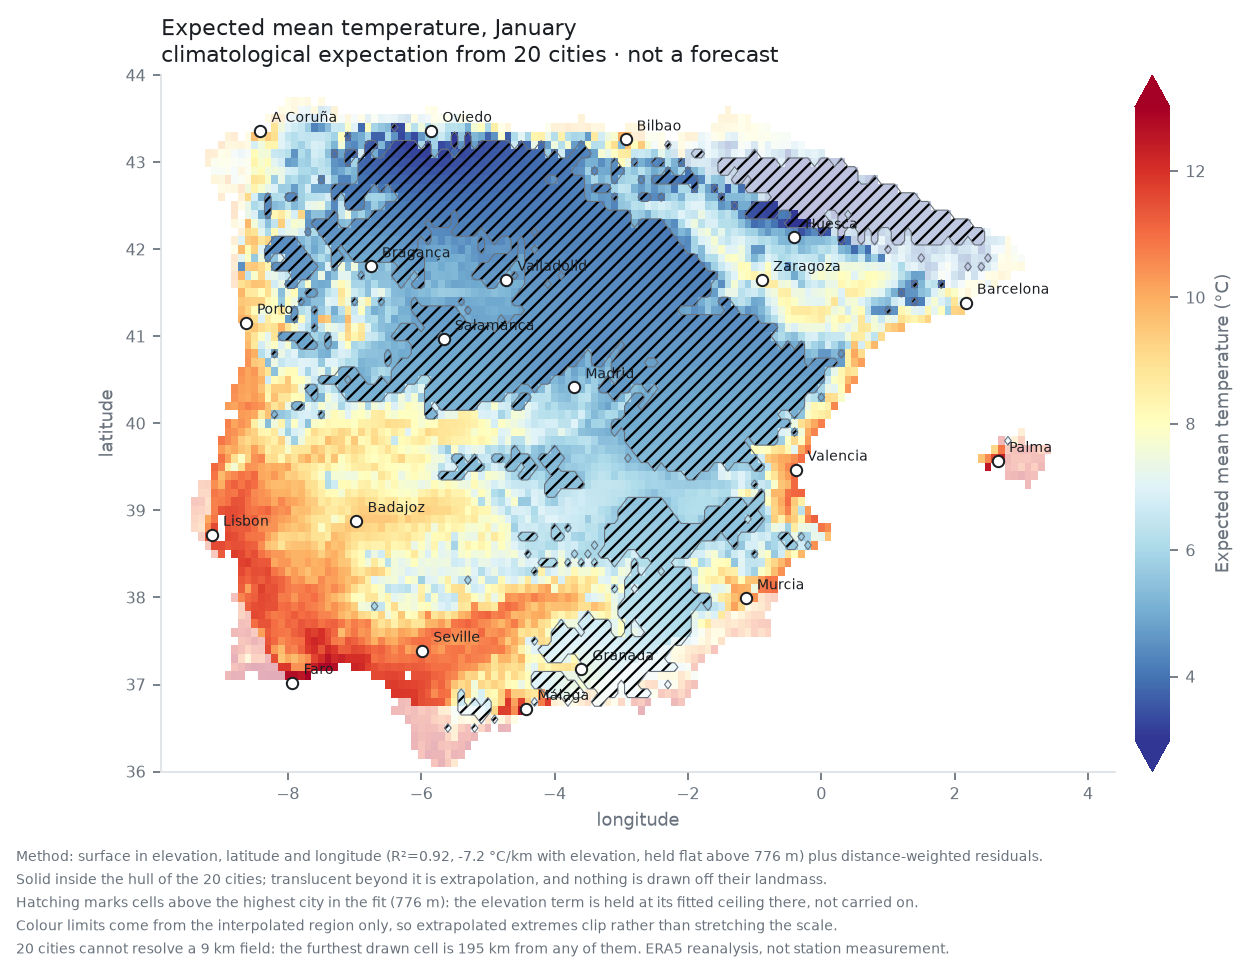
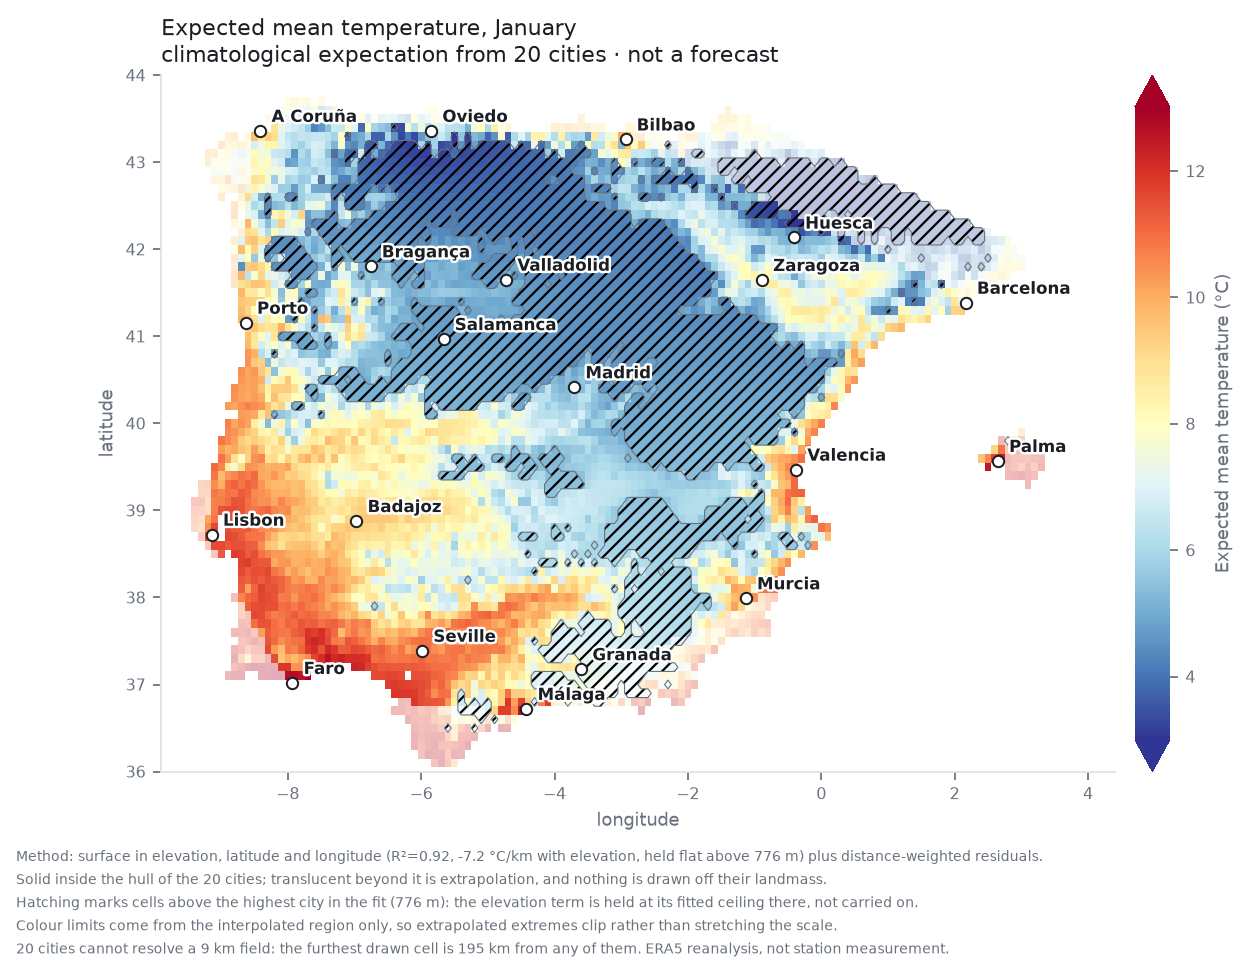
Make the map's city labels legible
They were 6.5pt, regular weight, dark ink, drawn straight onto the
painted field. On a dark January meseta cell that is dark-on-dark, so
Valladolid, Salamanca, Bragança and Madrid were effectively invisible.

Bold as asked, up a size to 7.5pt, and a white halo under the glyphs via
path effects. The halo is what actually does the work: weight alone does
not help text whose problem is that it has no contrast with what is
behind it, and the field is painted in every hue the colour scale has.
Drawn under the letterforms rather than around them, so it thickens the
stroke instead of outlining it.

Only the map labels change. The other figures draw their text on white,
where regular weight is already legible and bolding it would just be
noise.

diff --git a/scripts/make_figures.py b/scripts/make_figures.py
@@ -31,6 +31,7 @@ matplotlib.use("Agg")
 
 import matplotlib.colors  # noqa: E402
 import matplotlib.dates  # noqa: E402
+import matplotlib.patheffects as patheffects  # noqa: E402
 import matplotlib.pyplot as plt  # noqa: E402
 import numpy as np  # noqa: E402
 import pandas as pd  # noqa: E402
@@ -578,15 +579,24 @@ def figure_map(year: int, month: int, variable: str = "tavg"):
         linewidths=0.9,
         zorder=5,
     )
+    # City labels sit directly on the painted field, so weight alone does not make
+    # them legible -- dark ink on a dark January Pyrenees cell is unreadable at any
+    # weight. Bold for the stroke width, a size up from 6.5pt, and a white halo so
+    # the name carries its own contrast wherever it lands. The halo is drawn under
+    # the glyphs, so it thickens the letterform rather than outlining it.
     for slug, row in estimates.iterrows():
         ax.annotate(
             row["name"],
             (row["lon"], row["lat"]),
             textcoords="offset points",
             xytext=(5, 4),
-            fontsize=6.5,
+            fontsize=7.5,
+            fontweight="bold",
             color=INK,
             zorder=6,
+            path_effects=[
+                patheffects.withStroke(linewidth=2.2, foreground="white")
+            ],
         )
 
     bar = fig.colorbar(
